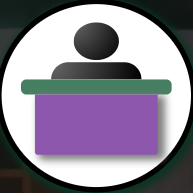
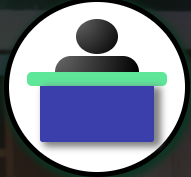
Updated home page color theme

diff --git a/src/general/components/Logo.css b/src/general/components/Logo.css
@@ -82,13 +82,15 @@
    width:100%;
    /* opacity:130%; */
    border-radius:5px;
-   background-color:rgb(62, 126, 96)
+   background-color:rgb(62, 126, 96);
+   background-color: #44e69a;
  }
  .logo-desk {
    height:40%;
    width:82%;
    /* opacity:80%; */
    background-color:rgb(145, 85, 173);
+   background-color:#383cab;
    color:white;
    text-align:center;
    font-weight:bold;

diff --git a/public/index.html b/public/index.html
@@ -2,7 +2,7 @@
 <html lang="en">
   <head>
     <meta charset="utf-8" />
-    <link rel="icon" href="%PUBLIC_URL%/cmfavicon.png" />
+    <link rel="icon" href="%PUBLIC_URL%/cmfaviconblue.png" />
     <meta name="viewport" content="width=device-width, initial-scale=1" />
     <meta name="theme-color" content="#000000" />
     <meta

diff --git a/src/general/Home.css b/src/general/Home.css
@@ -81,6 +81,7 @@
    align-items:center;
    position:absolute;
   background-image:linear-gradient(45deg,rgb(46, 80, 60, 80%), rgb(0, 0, 0, 80%), rgb(144, 85, 144, 80%));
+  background-image:linear-gradient(45deg,rgb(48, 88, 65, 80%),rgb(0, 0, 0, 80%),rgb(97, 90, 195, 79%));
   height:100vh;
   width:100vw;
  }
